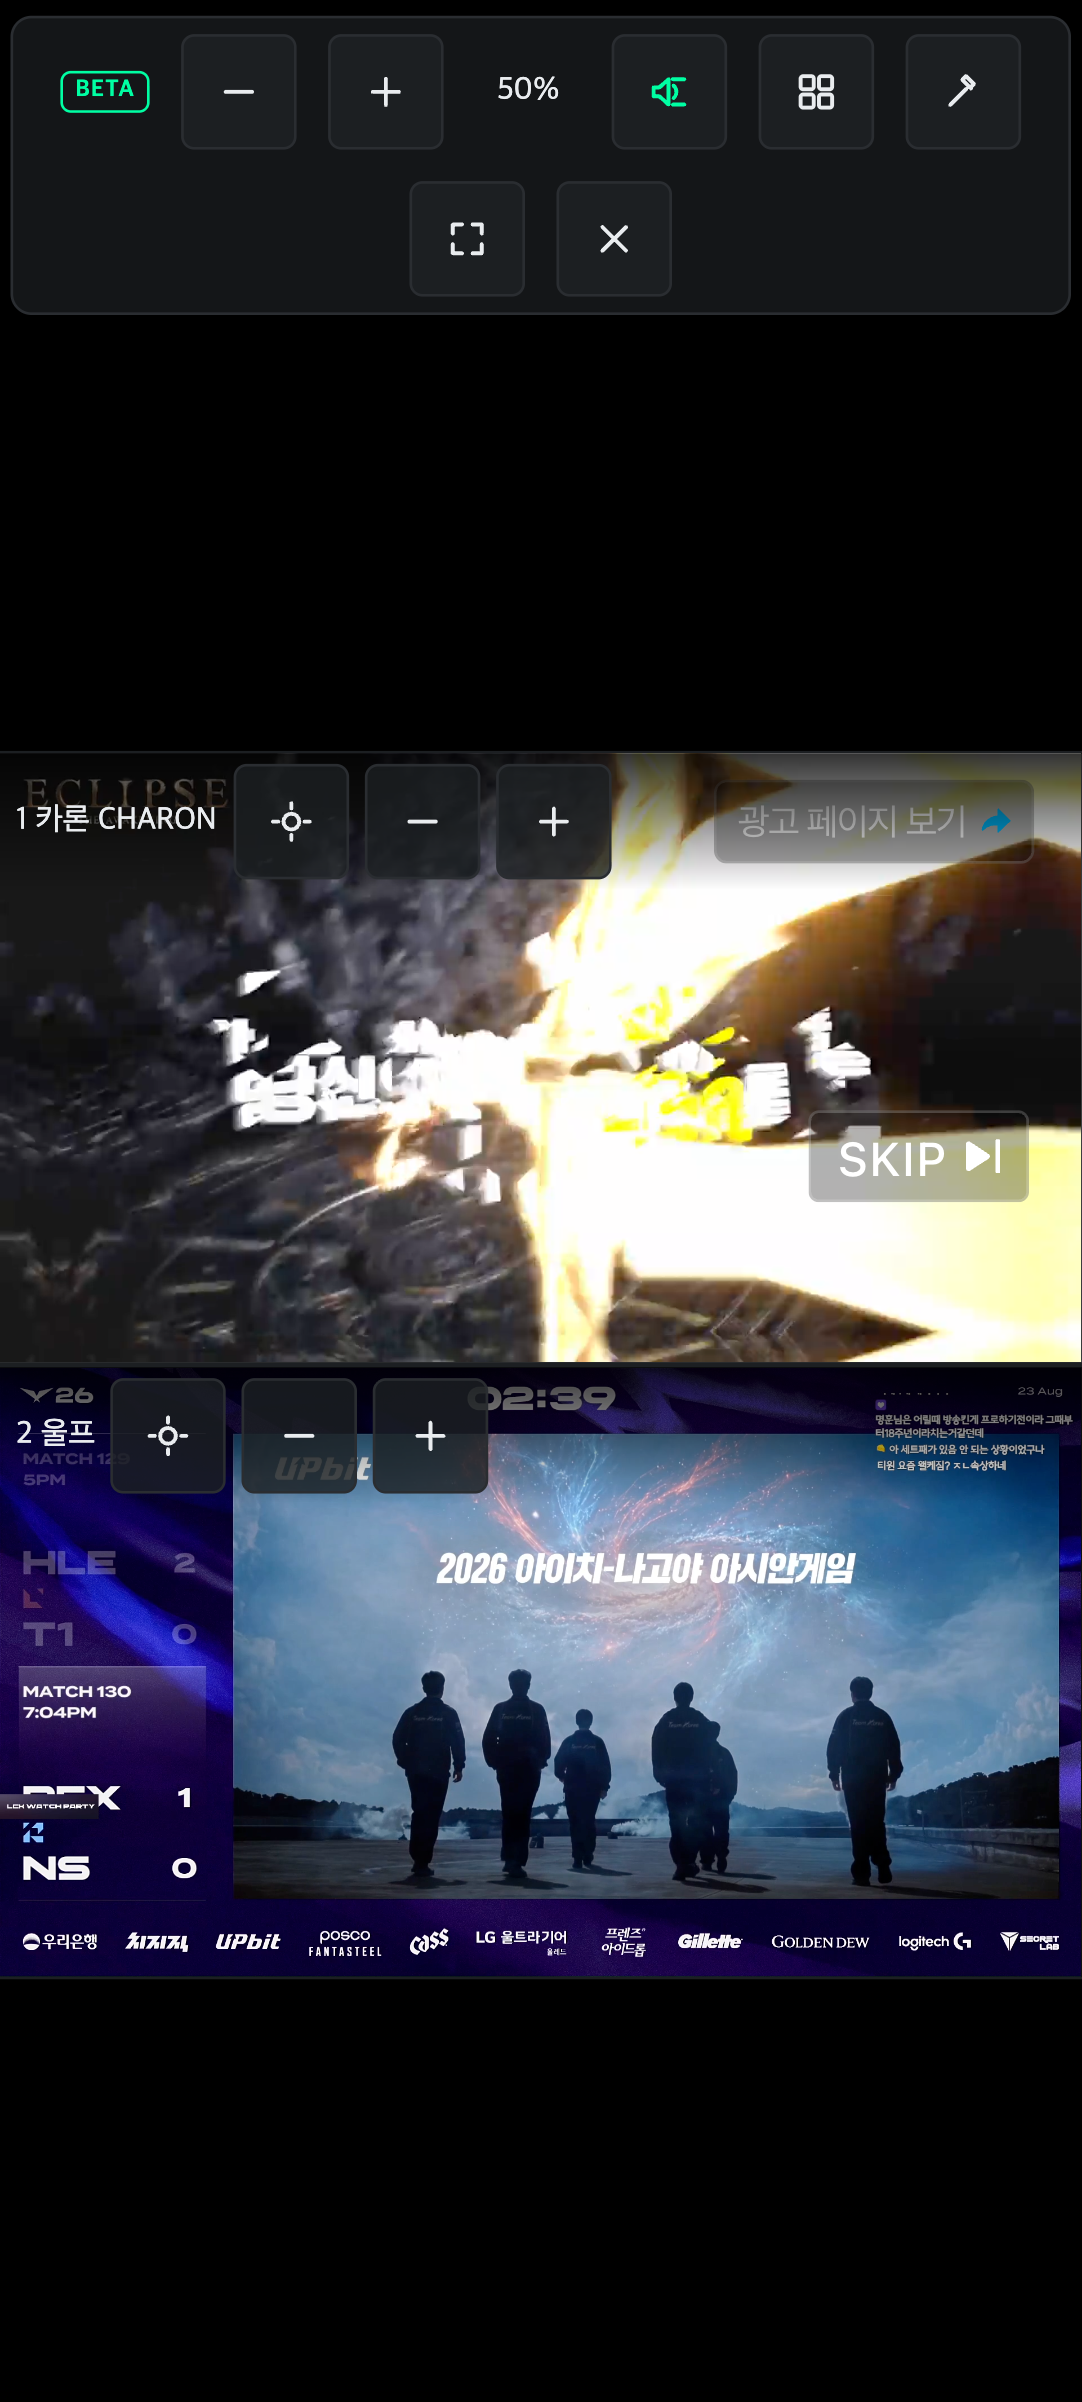
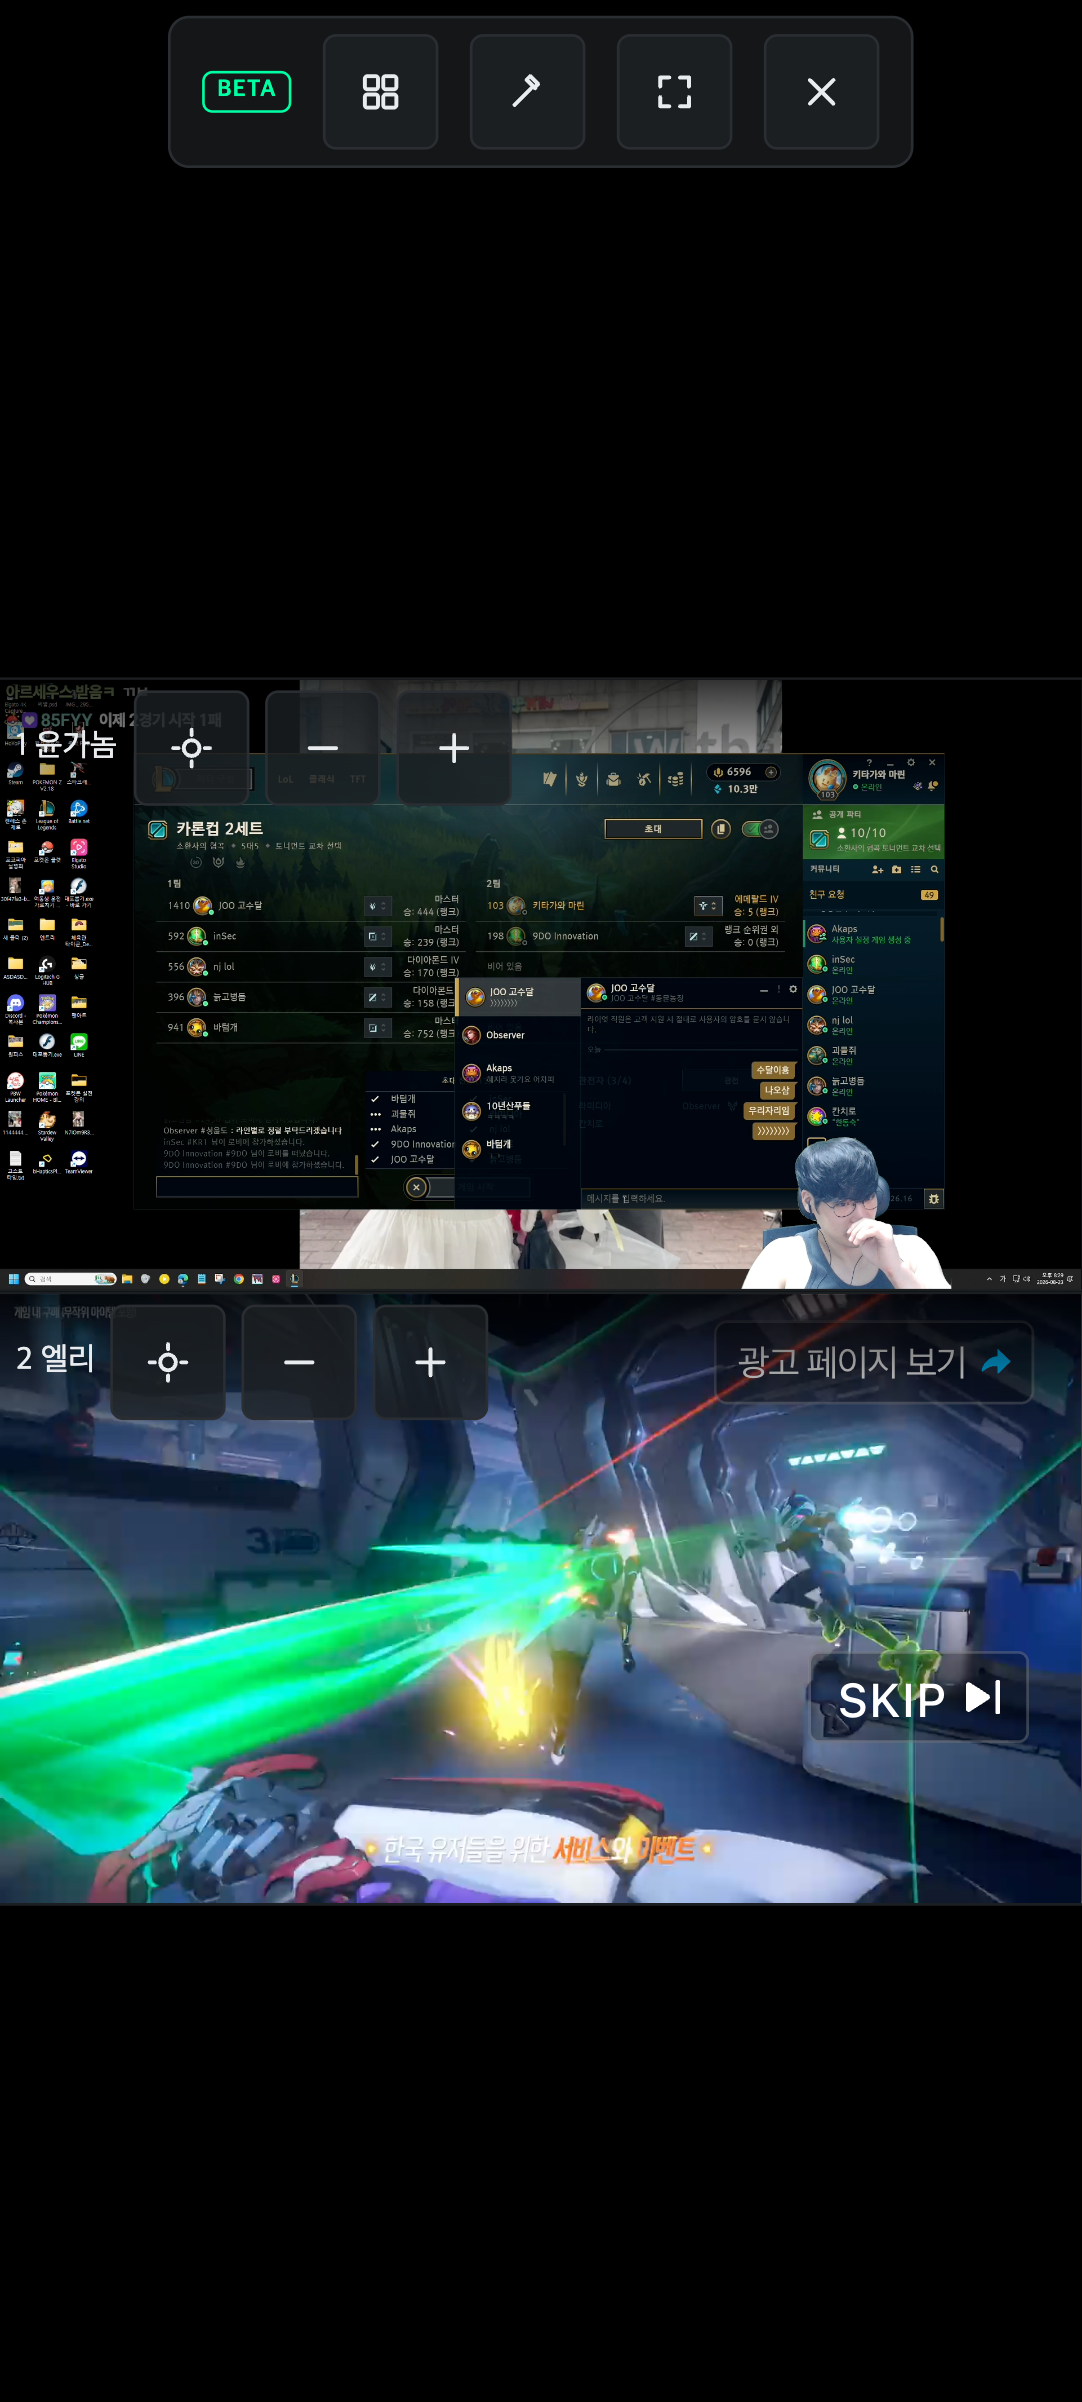
docs: Update changelog and demo screenshots

diff --git a/screenshots/README-snippet.md b/screenshots/README-snippet.md
@@ -1,15 +1,15 @@
 <!-- `yarn demo:shots` 로 생성된 목록. 실제 방송을 찍으므로 매 실행마다 채널이 다르다. -->
 <!-- 멀티뷰 시청 화면은 슬롯 컨텍스트 메뉴가 새어 나오면 저장 자체가 실패한다. -->
 
-| 기본 시청 화면 — 채팅 부가 요소 숨김 + 컨트롤바 버튼 삽입 (mobile-landscape · 카론 CHARON) | ![기본 시청 화면 — 채팅 부가 요소 숨김 + 컨트롤바 버튼 삽입](screenshots/demo-mobile-landscape-watch.png) |
-| 설정 패널 (FR-09.2) (mobile-landscape · 울프) | ![설정 패널 (FR-09.2)](screenshots/demo-mobile-landscape-settings.png) |
-| 멀티뷰 구성 시트 — 조작은 상단, 인기 방송 10개씩 추가 로드 (mobile-landscape · 파카) | ![멀티뷰 구성 시트 — 조작은 상단, 인기 방송 10개씩 추가 로드](screenshots/demo-mobile-landscape-multiview-config.png) |
-| 멀티뷰 시청 화면 (기기 상한에 맞춰 2·4분할) (mobile-landscape · 텐코 시부키) | ![멀티뷰 시청 화면 (기기 상한에 맞춰 2·4분할)](screenshots/demo-mobile-landscape-multiview.png) |
-| 기본 시청 화면 — 채팅 부가 요소 숨김 + 컨트롤바 버튼 삽입 (mobile-portrait · 카론 CHARON) | ![기본 시청 화면 — 채팅 부가 요소 숨김 + 컨트롤바 버튼 삽입](screenshots/demo-mobile-portrait-watch.png) |
-| 설정 패널 (FR-09.2) (mobile-portrait · 울프) | ![설정 패널 (FR-09.2)](screenshots/demo-mobile-portrait-settings.png) |
-| 멀티뷰 구성 시트 — 조작은 상단, 인기 방송 10개씩 추가 로드 (mobile-portrait · 파카) | ![멀티뷰 구성 시트 — 조작은 상단, 인기 방송 10개씩 추가 로드](screenshots/demo-mobile-portrait-multiview-config.png) |
-| 멀티뷰 시청 화면 (기기 상한에 맞춰 2·4분할) (mobile-portrait · 텐코 시부키) | ![멀티뷰 시청 화면 (기기 상한에 맞춰 2·4분할)](screenshots/demo-mobile-portrait-multiview.png) |
-| 기본 시청 화면 — 채팅 부가 요소 숨김 + 컨트롤바 버튼 삽입 (laptop13 · 카론 CHARON) | ![기본 시청 화면 — 채팅 부가 요소 숨김 + 컨트롤바 버튼 삽입](screenshots/demo-laptop13-watch.png) |
-| 설정 패널 (FR-09.2) (laptop13 · 울프) | ![설정 패널 (FR-09.2)](screenshots/demo-laptop13-settings.png) |
-| 멀티뷰 구성 시트 — 조작은 상단, 인기 방송 10개씩 추가 로드 (laptop13 · 파카) | ![멀티뷰 구성 시트 — 조작은 상단, 인기 방송 10개씩 추가 로드](screenshots/demo-laptop13-multiview-config.png) |
-| 멀티뷰 시청 화면 (기기 상한에 맞춰 2·4분할) (laptop13 · 텐코 시부키) | ![멀티뷰 시청 화면 (기기 상한에 맞춰 2·4분할)](screenshots/demo-laptop13-multiview.png) |
+| 기본 시청 화면 — 채팅 부가 요소 숨김 + 컨트롤바 버튼 삽입 (mobile-landscape · 윤가놈) | ![기본 시청 화면 — 채팅 부가 요소 숨김 + 컨트롤바 버튼 삽입](screenshots/demo-mobile-landscape-watch.png) |
+| 설정 패널 (FR-09.2) (mobile-landscape · 엘리) | ![설정 패널 (FR-09.2)](screenshots/demo-mobile-landscape-settings.png) |
+| 멀티뷰 구성 시트 — 조작은 상단, 인기 방송 10개씩 추가 로드 (mobile-landscape · 풍월량) | ![멀티뷰 구성 시트 — 조작은 상단, 인기 방송 10개씩 추가 로드](screenshots/demo-mobile-landscape-multiview-config.png) |
+| 멀티뷰 시청 화면 (기기 상한에 맞춰 2·4분할) (mobile-landscape · 행돌) | ![멀티뷰 시청 화면 (기기 상한에 맞춰 2·4분할)](screenshots/demo-mobile-landscape-multiview.png) |
+| 기본 시청 화면 — 채팅 부가 요소 숨김 + 컨트롤바 버튼 삽입 (mobile-portrait · 윤가놈) | ![기본 시청 화면 — 채팅 부가 요소 숨김 + 컨트롤바 버튼 삽입](screenshots/demo-mobile-portrait-watch.png) |
+| 설정 패널 (FR-09.2) (mobile-portrait · 엘리) | ![설정 패널 (FR-09.2)](screenshots/demo-mobile-portrait-settings.png) |
+| 멀티뷰 구성 시트 — 조작은 상단, 인기 방송 10개씩 추가 로드 (mobile-portrait · 풍월량) | ![멀티뷰 구성 시트 — 조작은 상단, 인기 방송 10개씩 추가 로드](screenshots/demo-mobile-portrait-multiview-config.png) |
+| 멀티뷰 시청 화면 (기기 상한에 맞춰 2·4분할) (mobile-portrait · 행돌) | ![멀티뷰 시청 화면 (기기 상한에 맞춰 2·4분할)](screenshots/demo-mobile-portrait-multiview.png) |
+| 기본 시청 화면 — 채팅 부가 요소 숨김 + 컨트롤바 버튼 삽입 (laptop13 · 윤가놈) | ![기본 시청 화면 — 채팅 부가 요소 숨김 + 컨트롤바 버튼 삽입](screenshots/demo-laptop13-watch.png) |
+| 설정 패널 (FR-09.2) (laptop13 · 엘리) | ![설정 패널 (FR-09.2)](screenshots/demo-laptop13-settings.png) |
+| 멀티뷰 구성 시트 — 조작은 상단, 인기 방송 10개씩 추가 로드 (laptop13 · 풍월량) | ![멀티뷰 구성 시트 — 조작은 상단, 인기 방송 10개씩 추가 로드](screenshots/demo-laptop13-multiview-config.png) |
+| 멀티뷰 시청 화면 (기기 상한에 맞춰 2·4분할) (laptop13 · 행돌) | ![멀티뷰 시청 화면 (기기 상한에 맞춰 2·4분할)](screenshots/demo-laptop13-multiview.png) |

diff --git a/README.md b/README.md
@@ -71,7 +71,7 @@
 | FR-11 | 특정 유저 채팅만 표시 | 복수 선택 가능. 켜는 즉시 최근 200개에서 과거 발언 채움 |
 | FR-12 | 기기 유형별 최적 UI·UX | 데스크톱 / 노트북 / 태블릿 13"·10"·7" / 모바일 6종 |
 | FR-13 | 치트키 구매 팝업 가리기 | 프로모션 팝업 UI(배너 + 플레이어 툴팁)를 가린다 |
-| FR-14 | 2~4 화면 분할 동시 시청(멀티뷰) | 슬롯마다 음소거·볼륨을 직접 조절한다(모든 슬롯이 소리를 낸다). 슬롯·사이드 채팅은 버그로 임시 비활성. 조작 바(`− + 50% 구성 ⛶ 해제`)는 가운데 상단, 볼륨은 마스터다 |
+| FR-14 | 2~4 화면 분할 동시 시청(멀티뷰) | 모든 슬롯이 소리를 낸다. 슬롯마다 자기 컨트롤바에 싱글뷰와 같은 볼륨·컴프레서 버튼이 뜬다. 슬롯·사이드 채팅은 버그로 임시 비활성. 스테이지 조작 바(`구성 설정 최대화 해제`)는 가운데 상단, 멀티뷰 전용 기능만 담당한다 |
 | FR-15 | 채팅 폰트 크기 조절 | 사이드 11~24px(기본 14) · 슬롯 10~16px(기본 12) |
 | FR-16 | 채팅창 부가 요소 숨김 | `채팅` 헤더 · 주간 후원 랭킹 · 드롭스 안내. **기본 숨김**, 항목별 토글 |
 | FR-17 | 채팅창 광고 배너 숨김 | **기본 숨김**. 배너 UI 만 가린다 — 영상 광고 재생에는 개입하지 않는다 |
@@ -334,13 +334,14 @@ MIT License · Copyright (c) 2026 Arc-Jung
 
 ### 2026-08-23
 
-- **멀티뷰 중 사라졌던 볼륨·컴프레서 버튼 복원** — 마스터 볼륨은 스테이지 바에 이미 있었지만 음량 평탄화(컴프레서)는 대응하는 버튼 자체가 없었고, 애초에 슬롯 오디오에는 컴프레서 그래프가 아예 연결돼 있지 않았다. 스테이지 조작 바에 컴프레서 토글을 추가하고, 슬롯 iframe 쪽에도 저장값을 구독해 실제로 컴프레서가 걸리도록 오디오 그래프를 연결
+- **멀티뷰 슬롯 안에 싱글뷰와 동일한 볼륨·컴프레서 컨트롤 적용** — 슬롯도 결국 같은 페이지를 그대로 iframe 으로 불러오므로, 싱글뷰의 볼륨/컴프레서 기능(`volumeFeature`)을 슬롯 프레임에서도 그대로 지원하도록 변경. 스테이지 조작 바에 별도로 만들었던 마스터 볼륨·컴프레서 버튼(파편화로 오류를 유발)은 제거하고, 각 슬롯 자신의 컨트롤바에 싱글뷰와 똑같은 버튼이 뜬다
+- **멀티뷰 슬롯이 가끔 로드에 실패하던 문제에 재시도 추가** — 4개 중 1~2개가 간헐적으로 실패하던 문제. 타임아웃마다 곧장 실패로 확정하지 않고 프레임을 최대 2회 다시 불러온 뒤에도 안 되면 최종 오류로 표시
+- **싱글 방송 시청 중 검은 화면만 뜨던 문제에 재시도 추가** — 스트림 데이터를 한 번도 받지 못한 채(재생 진행 없음) 일정 시간이 지나면 영상을 다시 불러와 재생을 시도(최대 2회)
 - **멀티뷰 슬롯 자동 화질 변경이 먹통이던 문제 수정** — 설정 메뉴를 열어야 하는 경로에서 재시도가 전혀 없었고, 목표 항목을 찾고도 합성 클릭이 반영되지 않았음(키보드 Enter 활성화로 교체)
 - **멀티뷰 슬롯 자동 음소거 해제가 먹통이던 문제 수정** — 2026-08-20 정책 변경 때 등록 시 자동 해제 지시가 함께 사라져, 자동재생 정책으로 음소거된 슬롯을 아무도 풀어주지 않았음(등록 시 1회 해제 복원)
 - **멀티뷰 중에도 확장 설정에 접근 가능** — 스테이지가 화면 전체를 덮어 호스트 설정(⚙) 버튼이 가려지던 문제. 스테이지 조작 바에 전용 설정 버튼(망치 아이콘 — 치지직 순정 톱니 아이콘과 구분) 추가
 - **멀티뷰 채널 목록에서 오프라인인 팔로우 채널은 숨김** — 지금 방송 중인 채널만 골라야 빈 슬롯이 안 생긴다
 - **인기 방송 "더 보기" 1회당 10개 → 30개**로 확대
-- **멀티뷰 구성 변경 후 자동재생이 안 될 수 있는 문제에 안전망 추가** — 슬롯 언마요트 직후 일시정지 상태면 재생을 한 번 더 시도(실브라우저 재현은 못했으나 예방 차원)
 - 멀티뷰 조작 바의 전체 화면 버튼에 "최대화" 라벨 추가(아이콘만 있어 다른 버튼과 달리 문구가 없었다)
 - 초광폭 화면(비율 1.8 이상 — 21:9·32:9 데스크톱 모니터부터 맥시마이즈한 노트북·태블릿 가로까지 모두 해당)에서 영상을 왼쪽/가운데 중 선택하는 옵션 추가(전체화면 여부와 무관하게 적용)
 - 초점 슬롯의 초록 테두리 강조 표시 제거(버튼 상태 자체는 유지)
